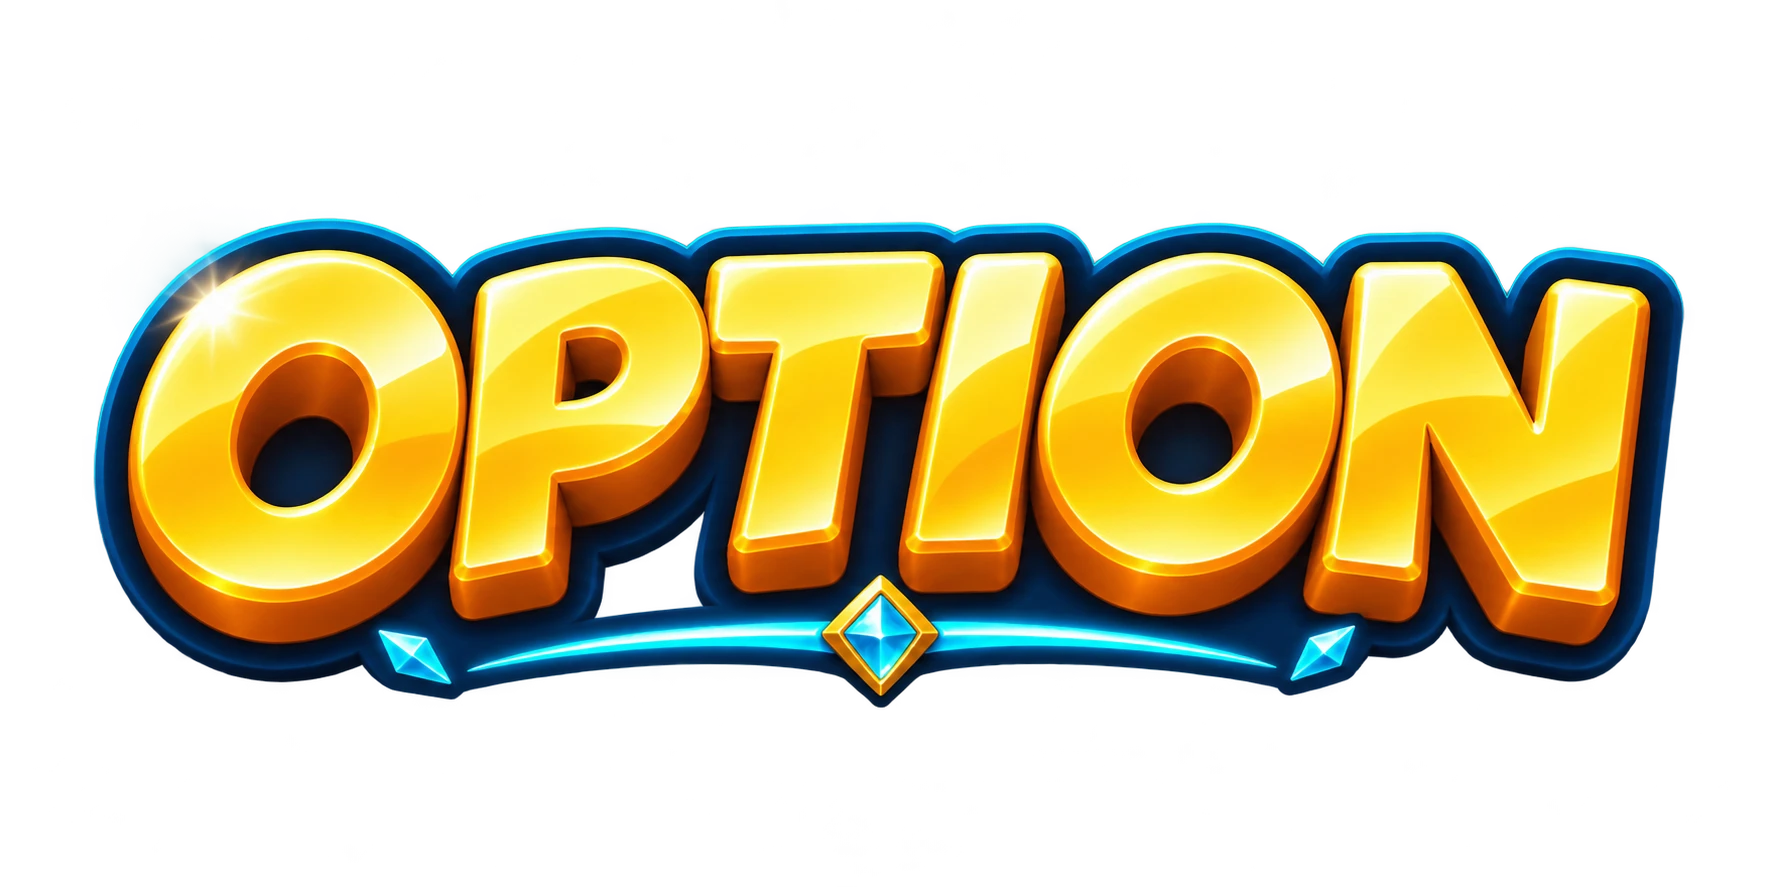
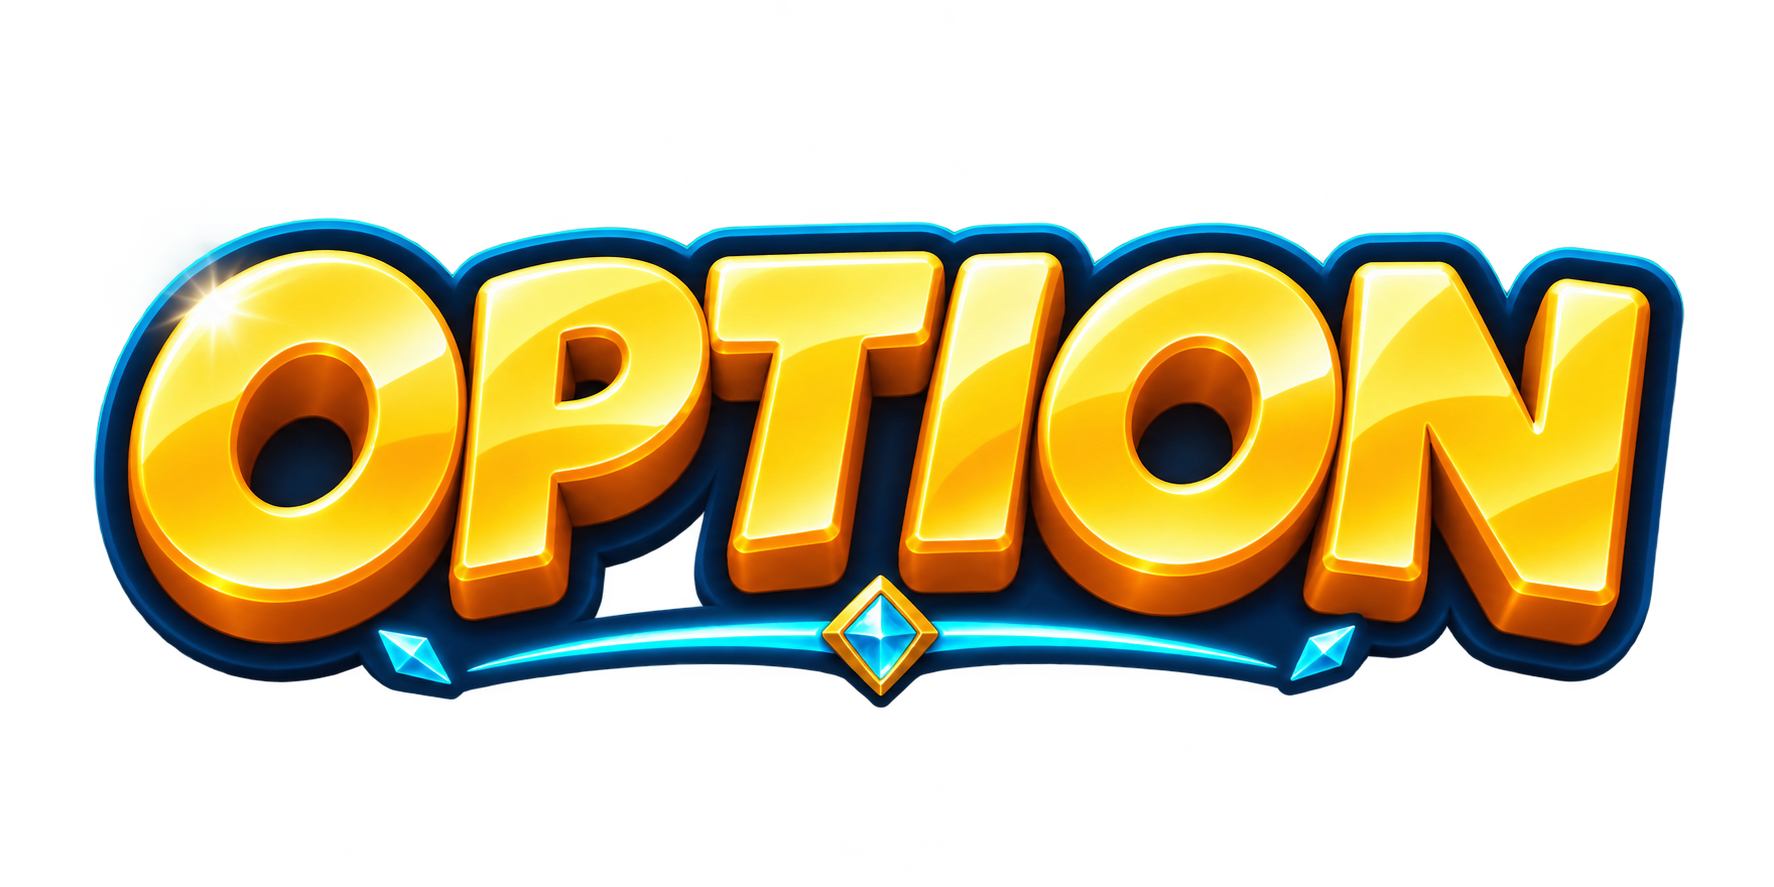
Brand refresh: icon_02 hub cover, banner_02 hero, refined OPTION art
- Hub game-card icon -> icon_02 (full charging-pug KV)
- Hub featured banner -> banner_02
- OPTION word-art updated to GPT's refined version
- Assets optimized to webp; lossless sources kept
  (GAME OVER / HOW TO PLAY word-art still pending from GPT)

Claude-Session: https://claude.ai/code/session_01WnPXDfC2E1HsxAHMdYXNWW

diff --git a/assets/css/hub.css b/assets/css/hub.css
@@ -1,7 +1,7 @@
 :root{color-scheme:dark;--bg:#070e1b;--surface:#101d30;--line:#ffffff14;--text:#f3f4ee;--muted:#a0afc1;--gold:#f8d577;--cyan:#73d9ef}
 *{box-sizing:border-box}html{scroll-behavior:smooth;scroll-padding-top:25px}body{margin:0;background:var(--bg);color:var(--text);font-family:Inter,"Noto Sans TC","PingFang TC","Microsoft JhengHei",Tahoma,sans-serif;-webkit-font-smoothing:antialiased}a{color:inherit;text-decoration:none}button,select{font:inherit}button,a,select{-webkit-tap-highlight-color:transparent}button{cursor:pointer}a:focus-visible,button:focus-visible,select:focus-visible{outline:3px solid var(--cyan);outline-offset:5px}::selection{background:var(--gold);color:var(--bg)}.container{width:min(1320px,calc(100% - 80px));margin:auto}.gold{color:var(--gold)}.skip{position:fixed;top:12px;left:16px;transform:translateY(-160%);padding:12px;background:var(--gold);color:#101522;z-index:10}.skip:focus{transform:none}
 header{min-height:96px;display:flex;align-items:center;justify-content:space-between;border-bottom:1px solid var(--line);gap:24px}.brand{display:inline-flex;align-items:center;gap:11px;font-size:18px;font-weight:850;letter-spacing:1px;white-space:nowrap}.brand-mark{width:34px;height:34px;display:grid;place-items:center;border:1px solid #f8d57755;border-radius:11px;background:#f8d5770c;color:var(--gold)}svg{display:block}.header-controls,nav{display:flex;align-items:center;gap:28px}nav{font-size:12px;color:#c1cad6}nav a:hover{color:var(--gold)}.language-control{display:flex;align-items:center;gap:8px;border:1px solid #ffffff22;border-radius:8px;padding:3px 10px;color:#b7c6d7}.language-control select{background:transparent;color:var(--text);border:0;min-height:38px;max-width:126px;font-size:12px;cursor:pointer}.language-control option{background:var(--surface);color:var(--text)}
-.banner{position:relative;isolation:isolate;overflow:hidden;margin:34px 0 52px;min-height:570px;border-radius:24px;border:1px solid #78d9ff30;background:#07192a;box-shadow:0 28px 70px #0002}.banner-art{position:absolute;inset:0;z-index:-3;background:#07192a url('../source/pic/banner/banner_01.png') center/cover no-repeat}.banner::before{content:"";position:absolute;inset:0;background:linear-gradient(90deg,#061322eb 0%,#061322d9 27%,#06132270 48%,#06132205 72%),linear-gradient(0deg,#061322e6,transparent 28%);z-index:-2}.banner-content{position:relative;padding:64px 62px 104px;max-width:650px}.eyebrow{display:flex;flex-wrap:wrap;align-items:center;gap:10px;color:#bbdeec;font-size:10px;font-weight:650;letter-spacing:2px;line-height:1.8}.eyebrow-divider{width:20px;height:1px;background:#b8e6f95c}.live-dot{width:5px;height:5px;border-radius:50%;background:#79e6c6;box-shadow:0 0 10px #79e6c6aa}h1{font-size:clamp(40px,4.5vw,66px);line-height:1.2;letter-spacing:-2px;margin:28px 0 23px;font-weight:850}h1 em{font-style:normal;color:var(--gold)}.intro{max-width:360px;color:#b3c4d6;font-size:14px;line-height:1.9;letter-spacing:.2px;margin:0;text-wrap:pretty}.actions{display:flex;align-items:center;gap:26px;margin-top:27px;flex-wrap:wrap}.button{display:inline-flex;align-items:center;justify-content:center;gap:28px;padding:16px 23px;border-radius:9px;font-size:14px;font-weight:750;transition:transform .2s,background .2s}.primary{background:var(--gold);color:#171c25;box-shadow:0 5px 24px #f8d57710}.primary:hover{background:#ffe4a1;transform:translateY(-3px)}.text-link{display:inline-flex;align-items:center;gap:12px;font-size:12px;color:#d2deea}.text-link:hover{color:var(--gold)}.hero-note{display:flex;align-items:center;gap:8px;font-size:11px;color:#9db7c9;margin-top:24px}.hero-note>span:first-child{color:var(--cyan)}.banner-footer{position:absolute;bottom:0;left:32px;right:32px;min-height:64px;border-top:1px solid #b9e9ff25;display:flex;justify-content:space-between;align-items:center;gap:18px;font-size:10px;letter-spacing:1.7px;color:#9fc1d1}.banner-number{color:#d9e7ed}.banner-number span{color:#71909e;margin:0 12px}.banner-caption{color:#c4dfe9}.banner-device{font-size:10px;letter-spacing:.4px}.banner-orbit{position:absolute;width:5px;height:5px;right:22%;top:23%;background:#e5faff;border-radius:50%;box-shadow:0 0 15px 4px #80dcff;animation:twinkle 3s ease-in-out infinite;pointer-events:none;z-index:-1}.orbit-two{right:13%;top:60%;width:3px;height:3px;animation-delay:-1.4s}@keyframes twinkle{0%,100%{opacity:.2;scale:.7}50%{opacity:1;scale:1.2}}
+.banner{position:relative;isolation:isolate;overflow:hidden;margin:34px 0 52px;min-height:570px;border-radius:24px;border:1px solid #78d9ff30;background:#07192a;box-shadow:0 28px 70px #0002}.banner-art{position:absolute;inset:0;z-index:-3;background:#07192a url('../runtime/pic/banner_02.webp') center/cover no-repeat}.banner::before{content:"";position:absolute;inset:0;background:linear-gradient(90deg,#061322eb 0%,#061322d9 27%,#06132270 48%,#06132205 72%),linear-gradient(0deg,#061322e6,transparent 28%);z-index:-2}.banner-content{position:relative;padding:64px 62px 104px;max-width:650px}.eyebrow{display:flex;flex-wrap:wrap;align-items:center;gap:10px;color:#bbdeec;font-size:10px;font-weight:650;letter-spacing:2px;line-height:1.8}.eyebrow-divider{width:20px;height:1px;background:#b8e6f95c}.live-dot{width:5px;height:5px;border-radius:50%;background:#79e6c6;box-shadow:0 0 10px #79e6c6aa}h1{font-size:clamp(40px,4.5vw,66px);line-height:1.2;letter-spacing:-2px;margin:28px 0 23px;font-weight:850}h1 em{font-style:normal;color:var(--gold)}.intro{max-width:360px;color:#b3c4d6;font-size:14px;line-height:1.9;letter-spacing:.2px;margin:0;text-wrap:pretty}.actions{display:flex;align-items:center;gap:26px;margin-top:27px;flex-wrap:wrap}.button{display:inline-flex;align-items:center;justify-content:center;gap:28px;padding:16px 23px;border-radius:9px;font-size:14px;font-weight:750;transition:transform .2s,background .2s}.primary{background:var(--gold);color:#171c25;box-shadow:0 5px 24px #f8d57710}.primary:hover{background:#ffe4a1;transform:translateY(-3px)}.text-link{display:inline-flex;align-items:center;gap:12px;font-size:12px;color:#d2deea}.text-link:hover{color:var(--gold)}.hero-note{display:flex;align-items:center;gap:8px;font-size:11px;color:#9db7c9;margin-top:24px}.hero-note>span:first-child{color:var(--cyan)}.banner-footer{position:absolute;bottom:0;left:32px;right:32px;min-height:64px;border-top:1px solid #b9e9ff25;display:flex;justify-content:space-between;align-items:center;gap:18px;font-size:10px;letter-spacing:1.7px;color:#9fc1d1}.banner-number{color:#d9e7ed}.banner-number span{color:#71909e;margin:0 12px}.banner-caption{color:#c4dfe9}.banner-device{font-size:10px;letter-spacing:.4px}.banner-orbit{position:absolute;width:5px;height:5px;right:22%;top:23%;background:#e5faff;border-radius:50%;box-shadow:0 0 15px 4px #80dcff;animation:twinkle 3s ease-in-out infinite;pointer-events:none;z-index:-1}.orbit-two{right:13%;top:60%;width:3px;height:3px;animation-delay:-1.4s}@keyframes twinkle{0%,100%{opacity:.2;scale:.7}50%{opacity:1;scale:1.2}}
 .collection{padding:0 0 58px}.section-top{display:flex;align-items:center;justify-content:space-between;gap:16px;margin-bottom:26px}.section-heading{display:flex;align-items:center;gap:13px}h2{font-size:25px;letter-spacing:-.5px;font-weight:700;margin:0}.count{border:1px solid #ffffff25;border-radius:6px;padding:4px 7px;color:var(--muted);font-size:10px}.section-top>p{color:#a2afc1;font-size:12px;margin:0}.filters{display:flex;gap:7px;align-items:center;overflow-x:auto;padding:5px 3px 16px;margin:0 -3px 16px;scrollbar-width:thin;scrollbar-color:#294158 transparent}.filter{background:transparent;border:1px solid transparent;border-radius:8px;padding:11px 17px;color:#a6b7cc;font-size:12px;display:inline-flex;align-items:center;gap:8px;white-space:nowrap;min-height:44px;flex-shrink:0;transition:background .15s,color .15s}.filter:hover{background:#ffffff08;color:var(--text)}.filter.selected{color:var(--gold);background:#f8d5770d;border-color:#f8d57744}.favorites-filter>span:first-child{font-size:18px;line-height:1}.favorite-count{font-size:10px;color:#a8b7c8;background:#ffffff0b;border-radius:4px;padding:2px 5px}.filter-divider{height:19px;width:1px;background:#ffffff20;flex-shrink:0;margin:0 10px}.grid{display:grid;grid-template-columns:repeat(4,minmax(0,1fr));gap:20px}.game-card{position:relative;min-width:0;border:1px solid #8cc4e027;border-radius:15px;overflow:hidden;background:linear-gradient(145deg,#14253b,#0c1727);transition:border-color .2s,transform .2s}.game-card:hover{transform:translateY(-4px);border-color:#73d9ef70}.game-cover{position:relative;display:block;aspect-ratio:1.55;background:radial-gradient(ellipse at center,#123c57,#0a1c30);overflow:hidden}.game-cover::before{content:"";position:absolute;inset:0;background:linear-gradient(0deg,#0d1c30,transparent 60%),url('../../01_memory_crash/assets/source/pic/background/bg_01.png') center 60%/cover;opacity:.45}.game-icon{position:absolute;width:106px;height:106px;object-fit:cover;left:50%;top:50%;transform:translate(-50%,-50%);border-radius:22px;border:1px solid #72d9ff55;box-shadow:0 8px 35px #0004}.favorite-button{position:absolute;top:12px;right:12px;width:38px;height:38px;display:grid;place-items:center;background:#071322c9;border:1px solid #ffffff30;border-radius:50%;color:#c9d6e5;z-index:1}.favorite-button svg{width:17px;height:17px;fill:none;stroke:currentColor;stroke-width:1.6}.favorite-button[aria-pressed="true"]{color:var(--gold);border-color:#f8d57777}.favorite-button[aria-pressed="true"] svg{fill:currentColor}.favorite-button:hover{background:#26374b}.game-body{padding:19px 20px 20px}.tags{display:flex;flex-wrap:wrap;gap:5px;margin-bottom:10px}.tag{font-size:9px;color:#a9d5e0;padding:3px 6px;border-radius:4px;background:#73d9ef09;border:1px solid #73d9ef20}.game-title{display:flex;justify-content:space-between;gap:10px;align-items:center}.game-title h3{font-size:18px;margin:0;letter-spacing:-.3px}.card-arrow{color:var(--gold);font-size:17px}.game-body p{font-size:12px;line-height:1.85;color:#9eafc4;margin:10px 0 0}.game-cover:focus-visible{outline-offset:-4px}.empty-slot{border:1px dashed #ffffff17;border-radius:15px;min-height:310px;background:#ffffff01}.result-status{color:#aab9cb;font-size:13px;line-height:1.8;margin:0 0 20px}.result-status:empty{display:none}footer{padding:26px 0 35px;display:flex;justify-content:center;align-items:center;gap:20px;border-top:1px solid var(--line);color:#93a1b5;font-size:10px;letter-spacing:.5px}.footer-brand{color:#bcc7d5;font-size:11px;font-weight:700;letter-spacing:1px}
 html[lang="en"] h1{font-size:clamp(37px,4.1vw,59px);letter-spacing:-1.7px}html[lang="th"] h1{line-height:1.5;letter-spacing:0;font-size:clamp(34px,3.8vw,54px)}html[lang="ja"] h1,html[lang="ko"] h1{letter-spacing:-1px;font-size:clamp(36px,3.9vw,56px)}
 @media(max-width:1000px){.container{width:calc(100% - 48px)}.banner-content{padding:52px 38px 100px;max-width:540px}.banner{min-height:530px}.grid{gap:14px}.game-body{padding:16px 14px}.game-title h3{font-size:16px}.game-icon{width:85px;height:85px}.empty-slot{min-height:285px}}

diff --git a/assets/js/hub.js b/assets/js/hub.js
@@ -22,7 +22,7 @@ const COPY = {
 };
 const LANGUAGE_KEY='gamehub_language';
 const FAVORITES_KEY='gamehub_favorites';
-const GAMES=[{id:'memory-crash',folder:'01_memory_crash',name:'Memory Crash',descriptionKey:'description',icon:'01_memory_crash/assets/runtime/pic/batch3/kv_cover.webp',categories:['puzzle','memory'],status:'ready'}];
+const GAMES=[{id:'memory-crash',folder:'01_memory_crash',name:'Memory Crash',descriptionKey:'description',icon:'01_memory_crash/assets/runtime/pic/branding/icon_02.webp',categories:['puzzle','memory'],status:'ready'}];
 const grid=document.getElementById('grid');
 const status=document.getElementById('result-status');
 const select=document.getElementById('language');

diff --git a/docs/handoffs/2026-11-10-hero-brand-refresh.md b/docs/handoffs/2026-11-10-hero-brand-refresh.md
@@ -1,0 +1,30 @@
+# 主視覺 Icon、Banner 與 OPTION 字藝（2026-11-10）
+
+## 使用者需求與成果
+
+使用者指定以衝鋒巴哥主視覺搭配 MEMORY CRASH Logo 做遊戲 icon，要求 OPTION 文字也經過設計，首頁 Banner 改採同組主視覺。
+
+- `01_memory_crash/assets/source/pic/branding/icon_02.png`：1254×1254 方形合成主視覺，衝鋒角色完整入鏡、十二色寶石與 Logo。依原 KV 和 Logo 參考重新構圖生成，不是來源素材逐像素拼貼。
+- `01_memory_crash/assets/source/pic/titles/option_hero.png`：1774×887 透明金色立體字，深藍厚邊、青色光線與水晶點綴。
+- `assets/source/pic/banner/banner_02.png`：2172×724 橫幅，左側留給六語系 HTML 文案，右側是衝鋒角色、寶石與 Logo。
+- 三張來源保留生成原始 PNG 與原生尺寸；對應 `runtime` 的 WebP 使用 lossless + exact，RGBA 逐像素一致。路徑、尺寸與像素 SHA256 見 `assets/source/BRAND_REFRESH_DELIVERY.json`，路徑相對 repo 根目錄。
+
+## 接入
+
+- `assets/js/hub.js` 遊戲收藏 icon 改引用 `icon_02.webp`。
+- 首頁與遊戲頁 favicon 改為 `icon_02.png`，舊 icon 保留；favicon 很小時完整字樣可能無法辨讀，未另繪簡化版。
+- `index.html` Banner 使用 picture；桌面顯示橫幅，760px 以下使用同系列方形圖置於文案上方。圖片採 contain，不把角色裁去；保留原六語系文案、入口與最愛功能。
+- `01_memory_crash/index.html` OPTION 頁標題改為專用字藝，alt 保留 OPTION；CSS 使用 contain。一般設定按鈕文字保留原可操作文字。
+- 本批沒有修改主角全身修正分支的檔案內容；PR #2 的全身角色變更仍由該 PR 獨立交付。
+
+## 驗證
+
+- 3/3 PNG／WebP RGBA 逐像素比對通過。
+- `node tools/check_hub.cjs`：六語系×四種寬度，無水平溢出；語言／最愛記憶、分類、空狀態、停用／損壞儲存、減少動態與遊戲新分頁入口通過。
+- Chromium 手機 OPTION 頁字藝解碼、標題替代文字、選項入口通過；Banner 手機與桌面 picture 選圖正確。
+- 截圖：`assets/preview/hero_brand_desktop.png`、`hero_brand_mobile.png`；遊戲 `assets/preview/option_hero_mobile.png`。既有 hub 三張驗證截圖同步更新。
+- 未重跑完整遊戲／音訊回歸，手機實機未驗收。
+
+## 交付狀態
+
+素材、程式與報告一併提交於 `codex/hero-game-icon`。待 PR 合併；未宣稱已部署，未透過外部訊息通知 Claude。

diff --git a/docs/handoffs/2026-11-09-batch3-integration.md b/docs/handoffs/2026-11-09-batch3-integration.md
@@ -60,3 +60,11 @@
 
 ## 設計需求：GAME OVER 字藝（交 GPT）
 使用者要求 GAME OVER 文字比照 OPTION 做成字藝圖。已於 `assets/ASSETS.md` 第五批開出 **T1 `pic/titles/gameover_hero.png`**（1774×887 透明、金色立體卡通字、與 OPTION/START 同風格、水平置中）。GPT 交付後，`#screen-over` 的 `GAME OVER` h2 改為 `<img class="title-word">`（比照 `option_hero` 接法）＋ runtime 壓縮 webp。選做 T2：HOW TO PLAY 標題字藝一致化。
+
+## 品牌刷新接入（icon_02 / banner_02 / OPTION 精修）
+GPT 於 `codex/hero-game-icon` 交付 icon_02（全身衝鋒封面）、banner_02（hub 首頁橫幅）、精修 option_hero。只取素材自接（未合併其基於舊版的程式）：
+- hub 遊戲卡片 icon：`kv_cover.webp` → `icon_02.webp`（76KB）。
+- hub 首頁主視覺 `.banner-art`：`banner_01.png` → `banner_02.webp`（96KB）。
+- OPTION 字藝 `option_hero.webp` 更新為精修版（66KB，與既有近乎一致）。
+- 來源 PNG 保留；GPT 交接 `docs/handoffs/2026-11-10-hero-brand-refresh.md` 一併帶入。
+- 注意：此批**不含 GAME OVER / HOW TO PLAY 字藝**，T1/T2 仍待 GPT 製作。

diff --git a/docs/HANDOFF.md b/docs/HANDOFF.md
@@ -4,6 +4,8 @@
 
 ## 最新交付
 
+- [2026-11-10 主視覺 Icon／Banner／OPTION 字藝刷新（Codex）](handoffs/2026-11-10-hero-brand-refresh.md)：icon_02 封面、banner_02 首頁橫幅、OPTION 精修；Claude 已接入。
+
 - [2026-11-09 全身 chibi 主角交付（Codex）](handoffs/2026-11-09-fullbody-chibi-pug.md)：pug_fullbody 全身站姿；Claude 已接入首頁/選單。
 
 - [2026-11-09 第三批 KV 正式接入（Claude）](handoffs/2026-11-09-batch3-integration.md)：首頁/選單改用 pug_head 半身像、START 字藝、遊戲橫幅換 v3 六詞；遊戲/結算保留可變表情 canvas。已接入。
